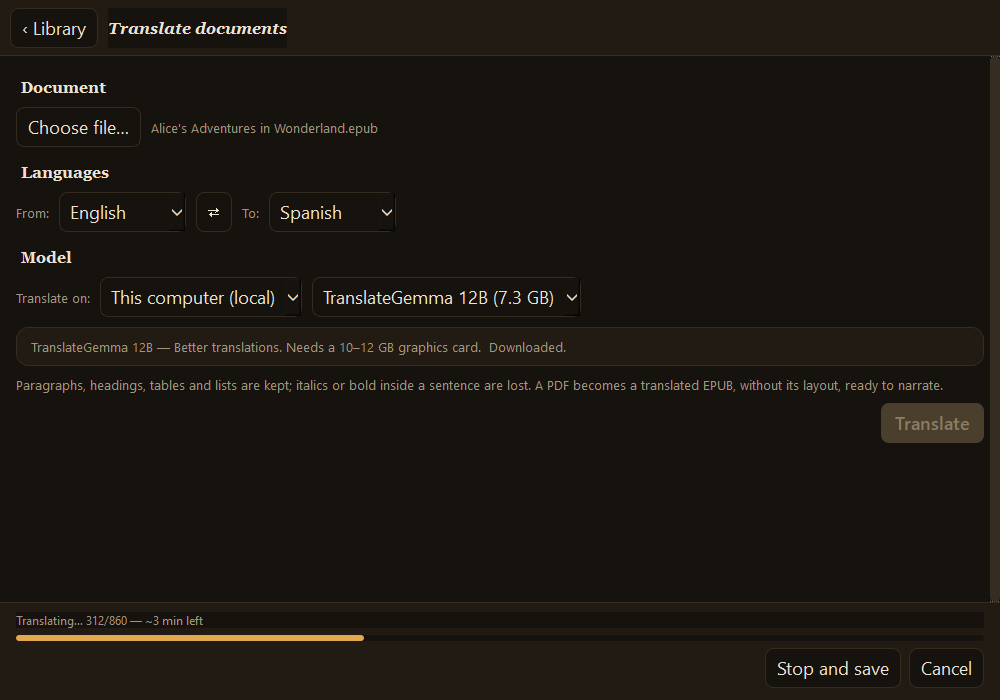
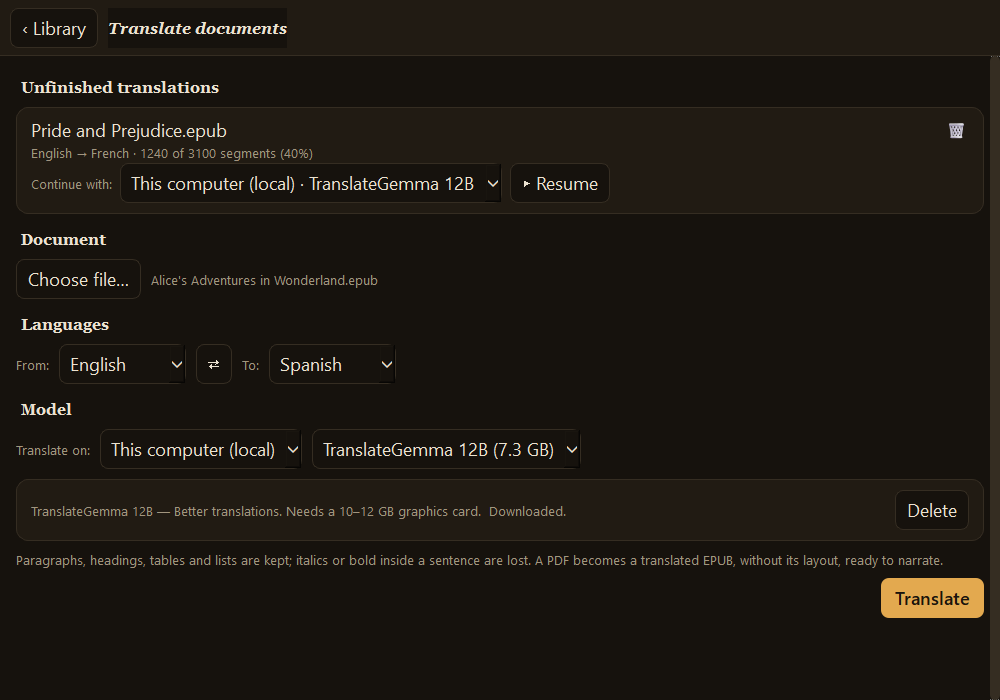
Versión 1.0: revisión de publicación
- EPUB sin EbookLib (AGPL): lector propio con zipfile y BeautifulSoup. Comparado con el
  anterior en 137 libros reales: mismos 5.488 capítulos y títulos.
- Sin datos personales: Storyteller.bat y la carpeta del servidor ya no llevan rutas fijas.
- llama.cpp y los modelos se comprueban con su SHA-256 al descargar.
- Nombres de archivo en las etiquetas como texto plano, nunca HTML.
- NOTICE completo, CHANGELOG y captura de la portada con las traducciones a medias.

Claude-Session: https://claude.ai/code/session_01St6UgmgrtqTZgKmeYkCfu7

diff --git a/st_translate.py b/st_translate.py
@@ -41,12 +41,18 @@ REQS = ["beautifulsoup4==4.15.0", "lxml==6.1.3", "python-docx==1.2.0", "python-p
 # llama.cpp fijado a una versión probada (no la última del día).
 LLAMA_BUILD = "b11803"
 _LB = f"https://github.com/ggml-org/llama.cpp/releases/download/{LLAMA_BUILD}/"
+# (fichero, sha256 publicado en la versión): se comprueba al descargar, porque luego se ejecuta.
 if os.name == "nt":
-    LLAMA_FILES = [f"llama-{LLAMA_BUILD}-bin-win-cuda-12.4-x64.zip", "cudart-llama-bin-win-cuda-12.4-x64.zip"]
+    LLAMA_FILES = [(f"llama-{LLAMA_BUILD}-bin-win-cuda-12.4-x64.zip",
[1 lines of base64/hex data omitted]
+                   ("cudart-llama-bin-win-cuda-12.4-x64.zip",
[1 lines of base64/hex data omitted]
 elif sys.platform == "darwin":
-    LLAMA_FILES = [f"llama-{LLAMA_BUILD}-bin-macos-arm64.tar.gz"]
+    LLAMA_FILES = [(f"llama-{LLAMA_BUILD}-bin-macos-arm64.tar.gz",
[1 lines of base64/hex data omitted]
 else:
-    LLAMA_FILES = [f"llama-{LLAMA_BUILD}-bin-ubuntu-vulkan-x64.tar.gz"]
+    LLAMA_FILES = [(f"llama-{LLAMA_BUILD}-bin-ubuntu-vulkan-x64.tar.gz",
[1 lines of base64/hex data omitted]
 
 _HF = "https://huggingface.co/mradermacher/"
 
@@ -59,12 +65,14 @@ def _sz(v):
 TR_MODELS = [
     {"id": "translategemma-4b", "name": "TranslateGemma 4B", "size": _sz("2,5 GB"),
      "file": "translategemma-4b-it.Q4_K_M.gguf",
-     "url": _HF + "translategemma-4b-it-GGUF/resolve/main/translategemma-4b-it.Q4_K_M.gguf",
+     "url": _HF + "translategemma-4b-it-GGUF/resolve/d37868f759d2f817a43d28dd80cf9f982ffa62fd/translategemma-4b-it.Q4_K_M.gguf",
[1 lines of base64/hex data omitted]
      "ollama": "translategemma:4b",
      "desc": _("Rápido. Cabe en tarjetas gráficas de 6 GB.")},
     {"id": "translategemma-12b", "name": "TranslateGemma 12B", "size": _sz("7,3 GB"),
      "file": "translategemma-12b-it.Q4_K_M.gguf",
-     "url": _HF + "translategemma-12b-it-GGUF/resolve/main/translategemma-12b-it.Q4_K_M.gguf",
+     "url": _HF + "translategemma-12b-it-GGUF/resolve/41d7c8aa650b26791225ad9d0597e674e680da96/translategemma-12b-it.Q4_K_M.gguf",
[1 lines of base64/hex data omitted]
      "ollama": "translategemma:12b",
      "desc": _("Traduce mejor. Pide una tarjeta gráfica de 10-12 GB.")},
 ]
@@ -252,16 +260,16 @@ class InstallWorker(QThread):
                           "pip")
                 (_VENV / ".ready").write_text("ok", encoding="utf-8")
             if self.local and find_llama_server() is None:
-                for f in LLAMA_FILES:
+                for f, sha in LLAMA_FILES:
                     dest = WORK / "dl" / f
-                    self._run([str(VPY), "-I", str(ENGINE), "download", "--url", _LB + f, "--dest", str(dest)],
-                              _("Descargando llama.cpp…"))
+                    self._run([str(VPY), "-I", str(ENGINE), "download", "--url", _LB + f, "--dest", str(dest),
+                               "--sha256", sha], _("Descargando llama.cpp…"))
                     self._run([str(VPY), "-I", str(ENGINE), "unzip", "--zip", str(dest), "--dest",
                                str(LLAMA_DIR)], "unzip")
                     dest.unlink(missing_ok=True)
             if self.local and not gguf_path(self.model).exists():
                 self._run([str(VPY), "-I", str(ENGINE), "download", "--url", self.model["url"], "--dest",
-                           str(gguf_path(self.model))],
+                           str(gguf_path(self.model))] + (["--sha256", self.model["sha256"]] if self.model.get("sha256") else []),
                           _("Descargando {0} ({1})…").format(self.model["name"], self.model["size"]))
             self.done.emit()
         except Exception as e:
@@ -398,7 +406,7 @@ class TranslatePage(QWidget):
         self.pickBtn = QPushButton(_("Elegir archivo…")); self.pickBtn.setObjectName("tb")
         self.pickBtn.setCursor(Qt.PointingHandCursor); self.pickBtn.clicked.connect(self._pick)
         self.fileLbl = QLabel(_("EPUB, PDF, Word, PowerPoint, Excel, subtítulos (SRT/VTT), TXT o Markdown"))
-        self.fileLbl.setObjectName("booksub"); self.fileLbl.setWordWrap(True)
+        self.fileLbl.setObjectName("booksub"); self.fileLbl.setWordWrap(True); self.fileLbl.setTextFormat(Qt.PlainText)
         frow.addWidget(self.pickBtn); frow.addWidget(self.fileLbl, 1)
         col.addLayout(frow)
 
@@ -440,7 +448,7 @@ class TranslatePage(QWidget):
         card = QFrame(); card.setObjectName("bookcard")
         cv = QVBoxLayout(card); cv.setContentsMargins(14, 10, 14, 10); cv.setSpacing(6)
         self.modelInfo = QLabel(""); self.modelInfo.setObjectName("booksub"); self.modelInfo.setWordWrap(True)
-        self.modelInfo.setStyleSheet("background: transparent;")
+        self.modelInfo.setStyleSheet("background: transparent;"); self.modelInfo.setTextFormat(Qt.PlainText)
         mrow = QHBoxLayout(); mrow.setSpacing(8)
         self.dlBtn = QPushButton(_("Descargar")); self.dlBtn.setObjectName("tb")
         self.delBtn = QPushButton(_("Borrar")); self.delBtn.setObjectName("tb")
@@ -468,7 +476,7 @@ class TranslatePage(QWidget):
         self.resCard = QFrame(); self.resCard.setObjectName("bookcard")
         rv = QVBoxLayout(self.resCard); rv.setContentsMargins(14, 10, 14, 10); rv.setSpacing(8)
         self.resLbl = QLabel(""); self.resLbl.setWordWrap(True); self.resLbl.setObjectName("booksub")
-        self.resLbl.setStyleSheet("background: transparent;")
+        self.resLbl.setStyleSheet("background: transparent;"); self.resLbl.setTextFormat(Qt.PlainText)
         self.resLbl.setTextInteractionFlags(Qt.TextSelectableByMouse)
         rrow = QHBoxLayout(); rrow.setSpacing(8); rrow.addStretch(1)
         self.folderBtn = QPushButton(_("Abrir carpeta")); self.folderBtn.setObjectName("tb")
@@ -558,7 +566,7 @@ class TranslatePage(QWidget):
         f = QFrame(); f.setObjectName("bookcard")
         row = QHBoxLayout(f); row.setContentsMargins(14, 10, 10, 10); row.setSpacing(10)
         tx = QVBoxLayout(); tx.setSpacing(2)
-        name = QLabel(Path(j.get("inp", "?")).name); name.setWordWrap(True)
+        name = QLabel(Path(j.get("inp", "?")).name); name.setWordWrap(True); name.setTextFormat(Qt.PlainText)
         name.setStyleSheet("background: transparent;")
         total, done = j.get("total") or 0, j["done"]
         count = _("{0} de {1} trozos ({2} %)").format(done, total, round(100 * done / total)) if total \

diff --git a/engine/cc_engine.py b/engine/cc_engine.py
@@ -401,22 +401,52 @@ def _blocks_text(soup):
         lines.append(ln)
     return "\n".join(lines)
 
-def chapters_from_epub(path, min_chars=25):
-    from ebooklib import epub, ITEM_DOCUMENT
+def _epub_package(path):
+    """(zip, carpeta del OPF, OPF ya leído). Un EPUB es un zip: no hace falta otra librería."""
+    import zipfile
     from bs4 import BeautifulSoup
-    book = epub.read_epub(path)
-    id2 = {it.get_id(): it for it in book.get_items()}
-    spine = [id2[i] for (i, _lin) in (book.spine or []) if i in id2]
-    docs = spine or list(book.get_items_of_type(ITEM_DOCUMENT))
+    z = zipfile.ZipFile(path)
+    opf = BeautifulSoup(z.read("META-INF/container.xml"), "xml").find("rootfile")["full-path"]
+    return z, opf.rsplit("/", 1)[0] + "/" if "/" in opf else "", BeautifulSoup(z.read(opf), "xml")
+
+
+def _epub_docs(path):
+    """Documentos del libro en orden de lectura: [(nombre relativo, contenido)]."""
+    import posixpath
+    from urllib.parse import unquote
+    z, base, pkg = _epub_package(path)
+    names = set(z.namelist())
+    def is_doc(it):
+        return it.get("media-type") in ("application/xhtml+xml", "text/html") or \
+            (it.get("href") or "").lower().endswith((".xhtml", ".html", ".htm"))
+    items = {it.get("id"): it for it in pkg.find_all("item")}
+    order = [items[r.get("idref")] for r in pkg.find_all("itemref") if r.get("idref") in items]
+    docs = []
+    for it in (order or list(items.values())):
+        name = unquote(it.get("href") or "")
+        full = posixpath.normpath(base + name)
+        if is_doc(it) and full in names:
+            docs.append((name, z.read(full)))
+    return docs
+
+
+def epub_title(path):
+    """Título del libro (dc:title), o "" si no tiene."""
+    try:
+        t = _epub_package(path)[2].find("title")
+        return t.get_text(strip=True) if t else ""
+    except Exception:
+        return ""
+
+
+def chapters_from_epub(path, min_chars=25):
+    from bs4 import BeautifulSoup
     out = []
-    for it in docs:
-        try:
-            if it.get_type() != ITEM_DOCUMENT: continue
-        except Exception:
-            continue
-        name = (it.get_name() or "").lower()
+    for name, content in _epub_docs(path):
+        name = name.lower()
         if "nav" in name or "toc" in name: continue            # saltar indice
-        soup = BeautifulSoup(it.get_content(), "lxml")
+        soup = BeautifulSoup(content, "lxml")
+        if soup.head: soup.head.decompose()                    # su <title> no se narra
         for t in soup(["script", "style"]): t.decompose()
         h = soup.find(["h1", "h2", "h3"])
         title = (h.get_text(" ", strip=True) if h else "").strip()
@@ -542,9 +572,8 @@ def cmd_generate(a):
     no_state = getattr(a, "no_state", False)
     if not cs or cs <= 1:                                 # solo el 1er tramo escribe el titulo
         try:
-            from ebooklib import epub
-            _t = epub.read_epub(a.epub).get_metadata("DC", "title")
-            if _t and _t[0][0].strip(): write_atomic(os.path.join(a.out, "title.txt"), _t[0][0].strip())
+            _t = epub_title(a.epub)
+            if _t: write_atomic(os.path.join(a.out, "title.txt"), _t)
         except Exception: pass
     print(f"capitulos: {len(chaps)}", flush=True)
     prev = load_prev_manifest(a.out, mani_name) if a.resume else {}

diff --git a/engine/cc_translate.py b/engine/cc_translate.py
@@ -15,7 +15,7 @@ Uso (lo lanza la app; imprime líneas de estado en stdout):
   python -I cc_translate.py translate --in F --out F --src en --tgt es
          (--llama-dir DIR --gguf FILE | --ssh user@host --ollama-model NAME)
          [--cache F] [--cache-id ID] [--stop-file F] [--title T] [--workers N]
-  python -I cc_translate.py download --url URL --dest FILE
+  python -I cc_translate.py download --url URL --dest FILE [--sha256 H]
   python -I cc_translate.py unzip --zip FILE --dest DIR
 
 Protocolo de salida: TOTAL n · SEG i n · PULL pct · DL pct · INFO texto · OUT ruta ·
@@ -1183,6 +1183,14 @@ def cmd_download(a):
                 if total and time.time() - last > 0.5:
                     say("DL", int(100 * got / total), f"{got / 1e9:.2f}/{total / 1e9:.2f} GB")
                     last = time.time()
+    if a.sha256:                       # lo que se descarga se ejecuta o se carga: que sea lo esperado
+        h = hashlib.sha256()
+        with open(part, "rb") as f:
+            for buf in iter(lambda: f.read(1 << 20), b""):
+                h.update(buf)
+        if h.hexdigest() != a.sha256.lower():
+            part.unlink(missing_ok=True)
+            raise RuntimeError(f"{dest.name}: la descarga no coincide con la huella esperada")
     replace_retry(part, dest)
     say("DL", 100)
     say("DONE")
@@ -1233,6 +1241,7 @@ def main():
     d = sub.add_parser("download")
     d.add_argument("--url", required=True)
     d.add_argument("--dest", required=True)
+    d.add_argument("--sha256")
     u = sub.add_parser("unzip")
     u.add_argument("--zip", required=True)
     u.add_argument("--dest", required=True)

diff --git a/engine/cc_xtts.py b/engine/cc_xtts.py
@@ -97,10 +97,9 @@ def cmd_generate(a):
     no_state = getattr(a, "no_state", False)
     if not cs or cs <= 1:                                 # solo el 1er tramo escribe el titulo
         try:
-            from ebooklib import epub
-            _t = epub.read_epub(a.epub).get_metadata("DC", "title")
-            if _t and _t[0][0].strip():
-                E.write_atomic(os.path.join(a.out, "title.txt"), _t[0][0].strip())
+            _t = E.epub_title(a.epub)
+            if _t:
+                E.write_atomic(os.path.join(a.out, "title.txt"), _t)
         except Exception: pass
     print(f"capitulos: {len(chaps)}", flush=True)
     prev = E.load_prev_manifest(a.out, mani_name) if a.resume else {}

diff --git a/storyteller.py b/storyteller.py
@@ -21,8 +21,10 @@ from PySide6.QtMultimedia import QMediaPlayer, QAudioOutput, QMediaDevices
 from st_lang import _  # interface texts in the user's language
 from st_translate import TranslatePage  # pantalla «Traducir documentos»
 
+__version__ = "1.0"
+
 MINT       = ""                      # servidor propio opcional (user@host); se configura en Modelos
-REMOTE_DIR = "epub-tts"
+REMOTE_DIR = "epub-tts"                # relativa al home del usuario del servidor
 HOME_CC    = Path.home() / "cuentacuentos"
 LOCAL_BOOKS = HOME_CC / "books"
 # Ruta del Python del motor: Windows usa Scripts/, Linux/macOS usan bin/.

diff --git a/CHANGELOG.md b/CHANGELOG.md
@@ -1,0 +1,24 @@
+# Changelog
+
+## 1.0 (2026-11-01)
+
+First tagged version.
+
+### New
+- **Translate books and documents** with TranslateGemma: EPUB, Word, PowerPoint, Excel,
+  subtitles (SRT/VTT), TXT and Markdown, between the 15 interface languages. A PDF becomes
+  a translated EPUB, without its layout. It runs on this computer (llama.cpp) or on your
+  own server (Ollama over SSH), and the result can be sent to narration with one click.
+- **Unfinished translations** are listed on the screen, even after closing the app.
+  *Stop and save* writes a document with what has been translated so far.
+- **Change the model halfway**: translation, narration and transcription keep what is
+  already done and carry on with the new model.
+- **Listen while it narrates**: the player follows the narration as it grows.
+
+### Fixed
+- Resuming on your own server a book started on this computer started again from zero and
+  deleted what had been narrated locally. It now warns you and does not start.
+
+### Changed
+- EPUB files are read without EbookLib, so the app no longer depends on that AGPL library.
+- `Storyteller.bat` and the server folder no longer contain fixed paths.

diff --git a/README.md b/README.md
@@ -68,7 +68,7 @@ Everything runs **locally** (GPU or CPU) or, if you like, on **your own server**
 - **Python 3.11+** with `PySide6` and `PySide6-Addons` (QtMultimedia, ffmpeg backend).
 - **ffmpeg**, **ffprobe** and **curl** on the `PATH`.
 - F5/Whisper engine in `engine/.venv` (PyTorch, `f5-tts`, `faster-whisper`,
-  `num2words`). For NVIDIA GPUs, PyTorch with CUDA.
+  `num2words`, `beautifulsoup4`, `lxml`). For NVIDIA GPUs, PyTorch with CUDA.
 - XTTS engine in a separate venv, `engine/.venv-xtts` (its dependencies clash with
   F5's): `torch==2.8.0` + `torchaudio==2.8.0` + `coqui-tts` + `faster-whisper` (for the
   QC), **without** `torchcodec` (torch ≥ 2.9 requires it and it fails on Windows).
@@ -113,4 +113,4 @@ secrets and misconfigurations on every push/PR.
 ## License
 
 MIT. See [LICENSE](LICENSE). Components and models that are downloaded separately keep
-their own licence: see [NOTICE](NOTICE).
+their own licence: see [NOTICE](NOTICE). Version history: [CHANGELOG](CHANGELOG.md).

diff --git a/README.es.md b/README.es.md
@@ -68,7 +68,7 @@ Los **modelos y las voces no vienen incluidos**: se **descargan desde la propia 
 - **Python 3.11+** con `PySide6` y `PySide6-Addons` (QtMultimedia, backend ffmpeg).
 - **ffmpeg** y **ffprobe** y **curl** en el `PATH`.
 - Motor F5/Whisper en `engine/.venv` (PyTorch, `f5-tts`, `faster-whisper`,
-  `num2words`). Para GPU NVIDIA, PyTorch con CUDA.
+  `num2words`, `beautifulsoup4`, `lxml`). Para GPU NVIDIA, PyTorch con CUDA.
 - Motor XTTS en un venv aparte, `engine/.venv-xtts` (sus dependencias chocan con las de
   F5): `torch==2.8.0` + `torchaudio==2.8.0` + `coqui-tts` + `faster-whisper` (para el
   QC), **sin** `torchcodec` (torch ≥ 2.9 lo exige y en Windows falla).
@@ -115,4 +115,4 @@ secretos y malas configuraciones en cada push/PR.
 ## Licencia
 
 MIT. Ver [LICENSE](LICENSE). Los componentes y modelos que se descargan aparte conservan
-su propia licencia: ver [NOTICE](NOTICE).
+su propia licencia: ver [NOTICE](NOTICE). Historial de versiones: [CHANGELOG](CHANGELOG.md).
